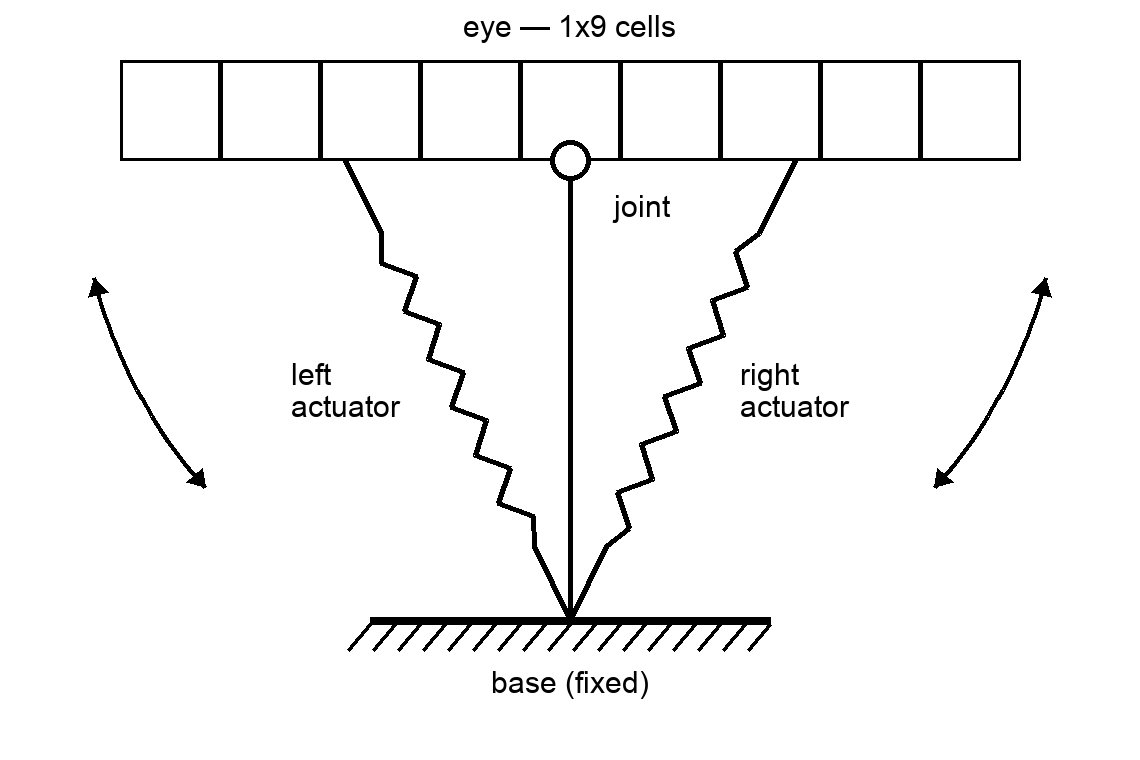
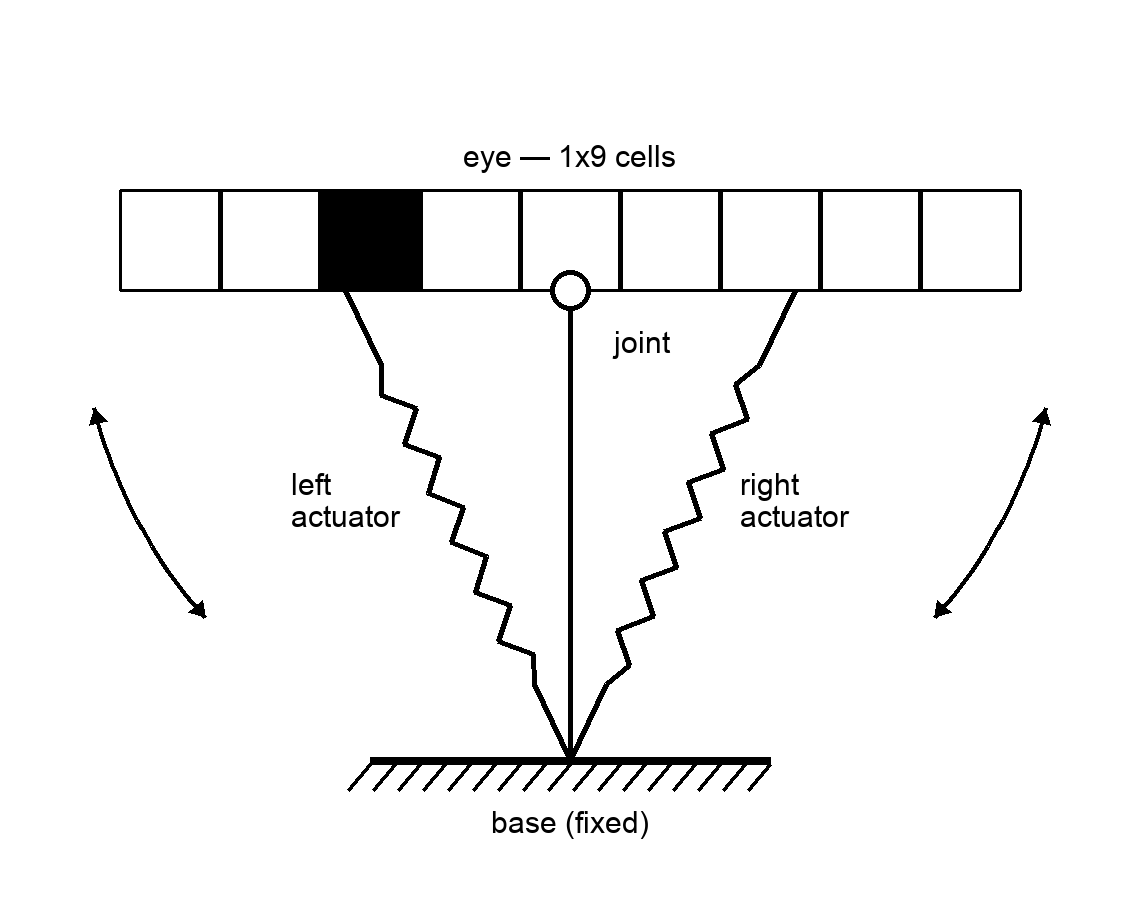
Put an object in front of Vehicle 1's eye in both drawings
Mark cell 3 busy at rest and, in the turned head, the cell the same object
falls on once the eye has moved: with each cell covering 9 degrees, an 18
degree turn slides it two cells, from 3 to 5, so the eye ends up centred
on what it was seeing off to one side.

Draw both pictures from one script sharing a frame, so the two can be
compared, and say in the spec what the pair implies — the eye fires
3 off / 5 on although nothing in the world moved.

diff --git a/spec/002-vehicles.md b/spec/002-vehicles.md
@@ -20,10 +20,14 @@ This vehicle has:
 
 So the vehicle can't move, it just can move the eye to both sides.
 
-Its shape is a T: the eye is the head, the joint is where the head meets the stem, and both actuators run from the middle of each half of the head down to the middle of the base:
+Its shape is a T: the eye is the head, the joint is where the head meets the stem, and both actuators run from the middle of each half of the head down to the middle of the base. The black cell is an object standing in front of the eye, seen here by cell 3:
 
 ![Vehicle 1 at rest](../docs/images/vehicle1_layout.png)
 
 Contracting one actuator stretches the other and the head turns around the joint, so the eye ends up looking to that side:
 
 ![Vehicle 1 with the head turned](../docs/images/vehicle1_tilted.png)
+
+The object has not moved — the head has. If each cell covers 9 degrees of the world (a number still to be fixed), turning 18 degrees to the left slides the object two cells along the eye, from cell 3 to cell 5: the eye has centred what it was looking at off to one side.
+
+Which is worth keeping in mind when reading [spec 001](001-neuromorphic-sensors.md): between those two pictures the eye fires `3 off` and `5 on`, and yet nothing in the world moved. To the retina, moving the eye and the world moving look exactly the same.
